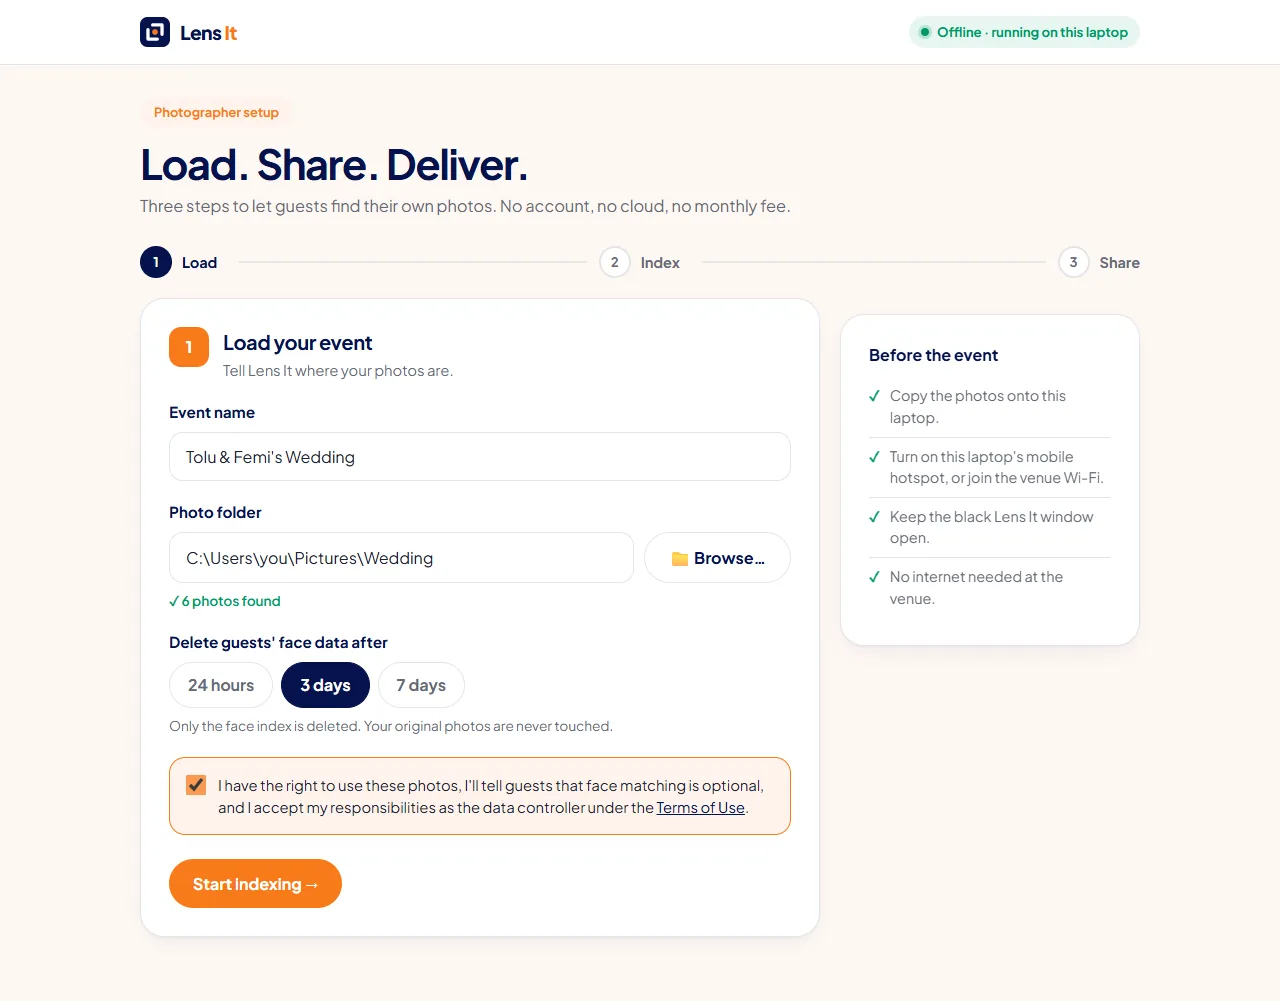
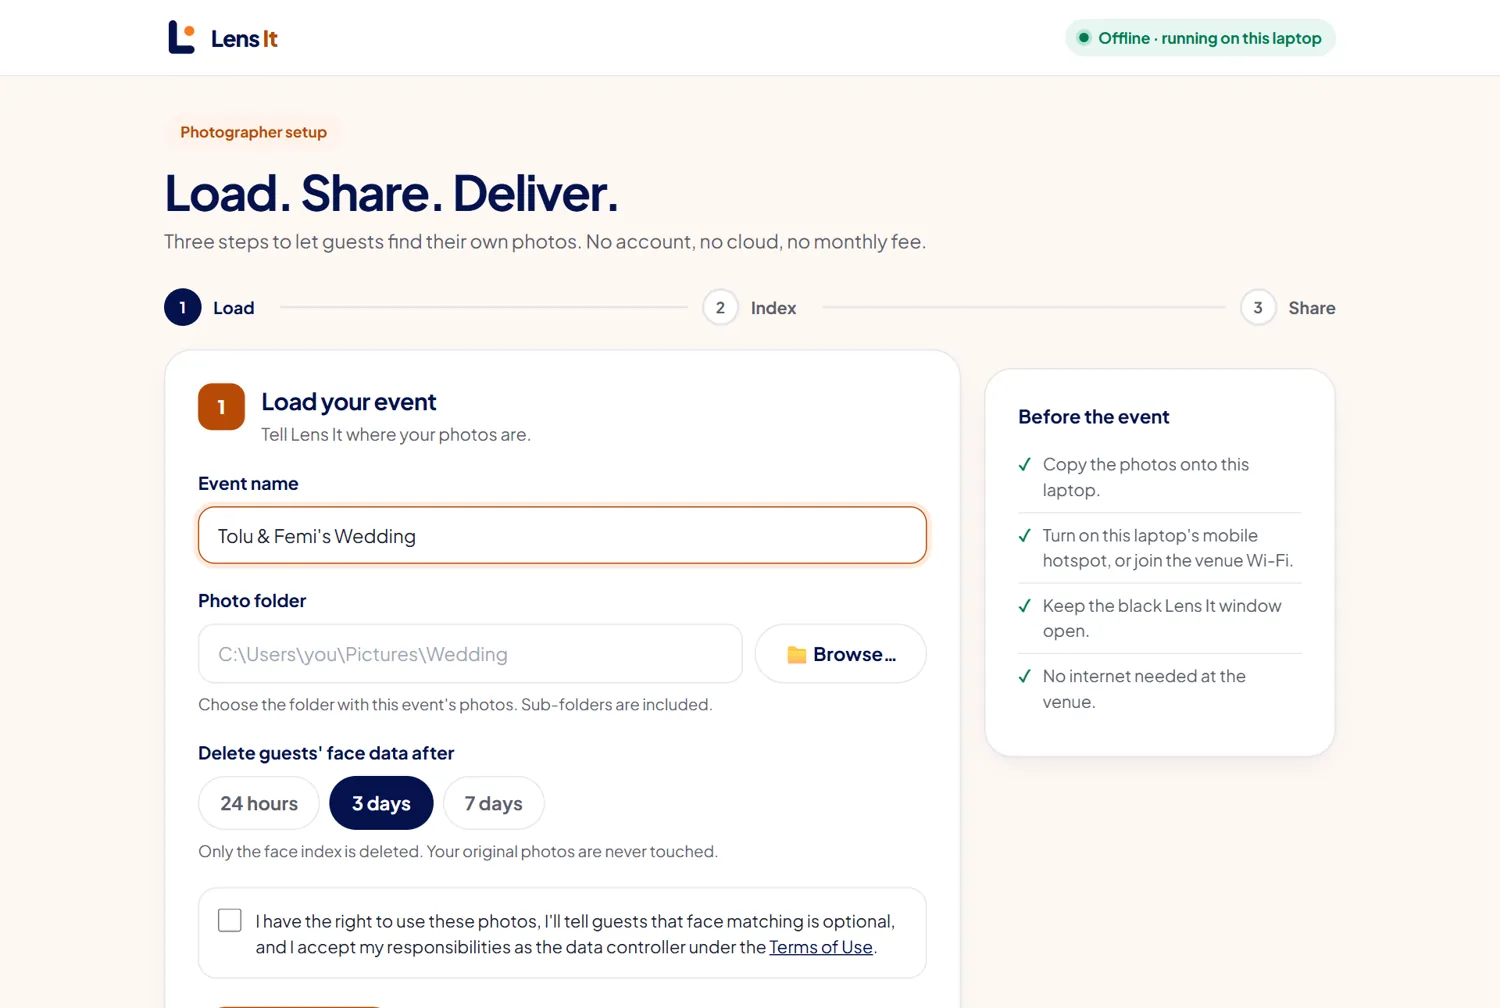
Match Try and legal pages, bigger app screenshots

diff --git a/lensit/index.html b/lensit/index.html
@@ -172,14 +172,16 @@ section[id]{scroll-margin-top:68px}
 .venue img{width:100%;height:clamp(240px,42vw,460px);object-fit:cover;object-position:center 35%}
 .venue figcaption{position:absolute;left:12px;bottom:12px;right:12px;max-width:30rem;background:var(--navy);color:#fff;border-radius:14px;padding:14px 16px;font-weight:700;line-height:1.35}
 /* steps */
-.steps{display:grid;gap:18px}
-.step{background:#fff;border:1px solid var(--line);border-radius:20px;overflow:hidden;display:flex;flex-direction:column}
-.step .txt{padding:22px 22px 24px}
-.step .n{font:700 .82rem "Space Grotesk",sans-serif;color:var(--orange);display:block;margin-bottom:8px}
-.step p{color:var(--muted);font-size:.97rem;margin-top:8px}
-.step .shot{aspect-ratio:16/10;background:var(--navy);overflow:hidden;margin-top:auto}
-.step .shot img{width:100%;height:100%;object-fit:cover;object-position:top}
-@media(min-width:900px){.steps{grid-template-columns:repeat(3,1fr)}}
+.steps{display:grid;gap:44px}
+.step{display:grid;gap:20px;align-items:center}
+.step .n{font:700 .82rem "Space Grotesk",sans-serif;color:var(--orange);display:block;margin-bottom:10px}
+.step h3{font-size:clamp(1.45rem,3vw,2rem);letter-spacing:-.03em;line-height:1.12}
+.step p{color:var(--muted);margin-top:12px}
+.frame{margin:0;background:#fff;border:1px solid var(--line);border-radius:18px;overflow:hidden;box-shadow:0 26px 50px -30px rgba(4,18,76,.55)}
+.frame img{width:100%;height:auto}
+.frame.phone{width:min(100%,330px);margin:auto;border:8px solid var(--navy);border-radius:34px}
+.shots-note{font-size:.84rem;color:var(--muted);margin:-16px 0 0}
+@media(min-width:900px){.steps{gap:72px}.step{grid-template-columns:.72fr 1.28fr;gap:56px}.step.flip .txt{order:2}.step.flip{grid-template-columns:1.28fr .72fr}.shots-note{margin:-40px 0 0}}
 
 /* privacy */
 .wash{background:var(--wash)}
@@ -371,9 +373,19 @@ footer a:hover{text-decoration:underline}
       <figcaption>Your laptop is the whole system. Guests just scan and search.</figcaption>
     </figure>
     <div class="steps">
-      <article class="step"><div class="txt"><span class="n">01 · Photographer</span><h3>Pick your event folder</h3><p>Lens It finds every face on your laptop. Choose when that face data deletes itself.</p></div><div class="shot"><img src="img/app-setup.webp" alt="Lens It event setup screen" loading="lazy"></div></article>
-      <article class="step"><div class="txt"><span class="n">02 · Venue</span><h3>Put up the QR poster</h3><p>Turn on your hotspot and print or display the poster. Guests join and scan it.</p></div><div class="shot"><img src="img/app-share.webp" alt="Printable QR poster screen" loading="lazy"></div></article>
-      <article class="step"><div class="txt"><span class="n">03 · Guest</span><h3>Selfie in, photos out</h3><p>After a short consent note, guests take a selfie, see watermarked previews and download their photos.</p></div><div class="shot"><img src="img/app-guest.webp" alt="Guest selfie page on a phone" loading="lazy"></div></article>
+      <article class="step">
+        <div class="txt"><span class="n">01 · Photographer</span><h3>Pick your event folder</h3><p>Name the event and choose the photo folder. Lens It finds every face on your laptop, and you choose when that face data deletes itself.</p></div>
+        <figure class="frame"><img src="img/app-setup.webp" alt="Lens It setup screen with event name, photo folder and when face data is deleted" width="1500" height="1008" loading="lazy"></figure>
+      </article>
+      <article class="step flip">
+        <div class="txt"><span class="n">02 · Venue</span><h3>Put up the QR poster</h3><p>Turn on your hotspot, then print or display the poster. Guests join the Wi-Fi and scan it.</p></div>
+        <figure class="frame"><img src="img/app-share.webp" alt="Lens It ready screen with a printable QR poster and event numbers" width="1500" height="1008" loading="lazy"></figure>
+      </article>
+      <article class="step">
+        <div class="txt"><span class="n">03 · Guest</span><h3>Selfie in, photos out</h3><p>After a short consent note, guests take a selfie, see watermarked previews and download their photos. No app, no account.</p></div>
+        <figure class="frame phone"><img src="img/app-guest.webp" alt="Guest results on a phone, with five watermarked photos found" width="780" height="1328" loading="lazy"></figure>
+      </article>
+      <p class="shots-note">App screens shown with sample data.</p>
     </div>
   </div>
 </section>

diff --git a/lensit/try.html b/lensit/try.html
@@ -8,7 +8,7 @@
 <meta property="og:image" content="https://wandercoil.github.io/lensit/icon-512.png">
 <meta property="og:type" content="website">
 <meta name="theme-color" content="#04124c">
-<link rel="icon" href="logo.svg" type="image/svg+xml">
+<link rel="icon" href="logo-badge.svg" type="image/svg+xml">
 <link rel="icon" href="favicon-32.png" sizes="32x32" type="image/png">
 <link rel="apple-touch-icon" href="apple-touch-icon.png">
 <title>Try Lens It in your browser</title>
@@ -107,10 +107,25 @@ h1{font-size:clamp(2rem,5vw,3rem);line-height:1.05;color:var(--navy);letter-spac
 .note a{color:var(--navy)}
 .logo{display:inline-flex;align-items:center;gap:10px}.logo .mark{width:30px;height:30px;flex:none}.logo .wmark span{color:var(--orange)}
 .wc{display:inline-flex;align-items:center;gap:12px;color:inherit;text-decoration:none;font-family:"Space Grotesk",ui-sans-serif,system-ui,sans-serif;font-weight:500;font-size:1rem;letter-spacing:.01em}.wc:hover{opacity:.85}.wc .wc-mark{width:32px;height:32px;flex:none}
+
+/* new site design */
+body{font-weight:500}
+header{position:sticky;top:0;z-index:20;background:rgba(254,247,243,.92);backdrop-filter:blur(12px);border-bottom:1px solid #e8e2dc}
+header .wrap{height:68px}
+header a.back{display:inline-flex;align-items:center;min-height:44px;color:var(--navy);font-weight:700}
+.eyebrow{background:none;padding:0;font:700 .8rem/1.3 "Space Grotesk",sans-serif;letter-spacing:.09em;text-transform:uppercase}
+h1{font-weight:800;letter-spacing:-.04em;line-height:1.04;font-size:clamp(2.4rem,6vw,4rem)}
+.btn{border-radius:14px;min-height:52px;font-weight:800;padding:0 24px}
+.card{border-radius:20px;border-color:#e8e2dc;box-shadow:0 18px 40px -32px rgba(4,18,76,.55)}
+.num{background:var(--navy);border-radius:12px}
+.roles div{border-color:#e8e2dc;border-radius:16px}
+.privacy span{border-color:#e8e2dc}
+.ph{border-radius:12px}.tile{border-radius:12px}
+.tile.hit{box-shadow:0 0 0 3px var(--orange-bright)}
 </style>
 </head>
 <body>
-<header><div class="wrap"><a class="logo" href="./"><svg class="mark" viewBox="0 0 64 64" aria-hidden="true"><rect width="64" height="64" rx="16" fill="#04124c"/><path d="M17 27V47H37M47 37V17H27" fill="none" stroke="#fff" stroke-width="7" stroke-linecap="round" stroke-linejoin="round"/><circle cx="32" cy="32" r="6" fill="#f87a1b"/></svg><span class="wmark">Lens<span> It</span></span></a><a class="back" href="./">← Back to site</a></div></header>
+<header><div class="wrap"><a class="logo" href="./"><img class="mark" src="logo.svg" alt="" width="30" height="30"><span class="wmark">Lens<span> It</span></span></a><a class="back" href="./">← Back to site</a></div></header>
 
 <main class="wrap">
   <div style="padding-top:36px">

diff --git a/lensit/privacy.html b/lensit/privacy.html
@@ -3,7 +3,7 @@
 <head>
 <meta charset="utf-8">
 <meta name="viewport" content="width=device-width,initial-scale=1">
-<link rel="icon" href="logo.svg" type="image/svg+xml">
+<link rel="icon" href="logo-badge.svg" type="image/svg+xml">
 <link rel="icon" href="favicon-32.png" sizes="32x32" type="image/png">
 <link rel="apple-touch-icon" href="apple-touch-icon.png">
 <title>Privacy Policy · Lens It</title>
@@ -13,7 +13,7 @@
 <link rel="stylesheet" href="legal.css">
 </head>
 <body>
-<header><div class="wrap"><a class="logo" href="./"><svg class="mark" viewBox="0 0 64 64" aria-hidden="true"><rect width="64" height="64" rx="16" fill="#04124c"/><path d="M17 27V47H37M47 37V17H27" fill="none" stroke="#fff" stroke-width="7" stroke-linecap="round" stroke-linejoin="round"/><circle cx="32" cy="32" r="6" fill="#f87a1b"/></svg><span class="wmark">Lens<span> It</span></span></a><nav><a href="privacy.html">Privacy</a><a href="terms.html">Terms</a><a href="./">Home</a></nav></div></header>
+<header><div class="wrap"><a class="logo" href="./"><img class="mark" src="logo.svg" alt="" width="30" height="30"><span class="wmark">Lens<span> It</span></span></a><nav><a href="privacy.html">Privacy</a><a href="terms.html">Terms</a><a href="./">Home</a></nav></div></header>
 <div class="wrap"><main>
 <h1>Privacy Policy</h1>
 <p class="meta">Last updated: 5 November 2026</p>

diff --git a/lensit/terms.html b/lensit/terms.html
@@ -3,7 +3,7 @@
 <head>
 <meta charset="utf-8">
 <meta name="viewport" content="width=device-width,initial-scale=1">
-<link rel="icon" href="logo.svg" type="image/svg+xml">
+<link rel="icon" href="logo-badge.svg" type="image/svg+xml">
 <link rel="icon" href="favicon-32.png" sizes="32x32" type="image/png">
 <link rel="apple-touch-icon" href="apple-touch-icon.png">
 <title>Terms of Use · Lens It</title>
@@ -13,7 +13,7 @@
 <link rel="stylesheet" href="legal.css">
 </head>
 <body>
-<header><div class="wrap"><a class="logo" href="./"><svg class="mark" viewBox="0 0 64 64" aria-hidden="true"><rect width="64" height="64" rx="16" fill="#04124c"/><path d="M17 27V47H37M47 37V17H27" fill="none" stroke="#fff" stroke-width="7" stroke-linecap="round" stroke-linejoin="round"/><circle cx="32" cy="32" r="6" fill="#f87a1b"/></svg><span class="wmark">Lens<span> It</span></span></a><nav><a href="privacy.html">Privacy</a><a href="terms.html">Terms</a><a href="./">Home</a></nav></div></header>
+<header><div class="wrap"><a class="logo" href="./"><img class="mark" src="logo.svg" alt="" width="30" height="30"><span class="wmark">Lens<span> It</span></span></a><nav><a href="privacy.html">Privacy</a><a href="terms.html">Terms</a><a href="./">Home</a></nav></div></header>
 <div class="wrap"><main>
 <h1>Terms of Use</h1>
 <p class="meta">Last updated: 5 November 2026</p>

diff --git a/lensit/legal.css b/lensit/legal.css
@@ -19,3 +19,14 @@ li{margin:4px 0}
 .logo{display:inline-flex;align-items:center;gap:10px}.logo .mark{width:30px;height:30px;flex:none}.logo .wmark span{color:var(--orange)}
 .wc{display:inline-flex;align-items:center;gap:12px;color:inherit;text-decoration:none;font-family:"Space Grotesk",ui-sans-serif,system-ui,sans-serif;font-weight:500;font-size:1rem;letter-spacing:.01em}.wc:hover{opacity:.85}.wc .wc-mark{width:32px;height:32px;flex:none}
 footer.legal{max-width:820px;margin:0 auto 40px;padding:0 16px;color:#656a76;font-size:.82rem;display:flex;justify-content:space-between;flex-wrap:wrap;gap:8px}
+
+/* new site design */
+body{font-weight:500}
+header{position:sticky;top:0;z-index:20;background:rgba(254,247,243,.92);backdrop-filter:blur(12px);border-bottom:1px solid #e8e2dc}
+header .wrap{height:68px}
+header nav a{display:inline-flex;align-items:center;min-height:44px;color:var(--navy);font-weight:700}
+main{border-color:#e8e2dc;border-radius:20px;box-shadow:0 18px 40px -32px rgba(4,18,76,.55)}
+h1{font-weight:800;letter-spacing:-.04em;line-height:1.08;font-size:clamp(2.2rem,5vw,3.2rem)}
+h2{letter-spacing:-.02em;font-weight:800}
+.meta{font-family:"Space Grotesk",sans-serif}
+.tldr{border-radius:14px}
